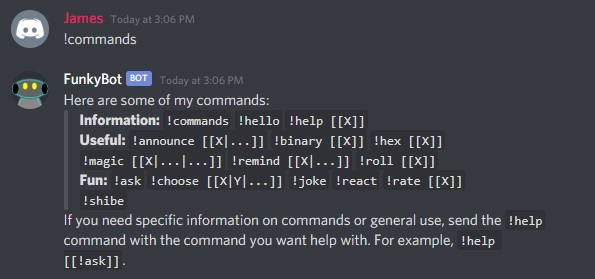
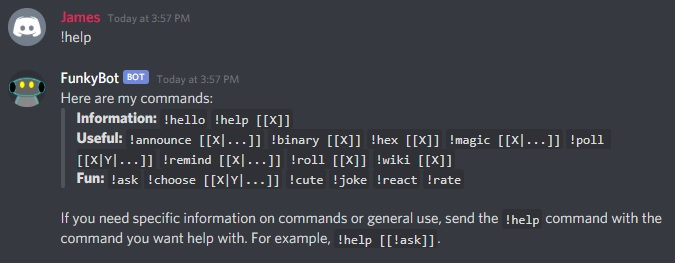
Updated FunkyBot project page

Changed region(s): [[0.0, 0.2433, 0.9983, 0.9734], [0.0, 0.0304, 0.3328, 0.1825]]

diff --git a/projects/funkybot.html b/projects/funkybot.html
@@ -39,9 +39,9 @@
                             Some commands available to use with FunkyBot include:
                             <ul>
                                 <li>
-                                    <code>!react</code>/<code>!shibe</code> - 
-                                    Post a random reaction image or picture of a shiba inu to chat.
-                                    No images are supplied in the project repository and must be added by the user running the program.
+                                    <code>!poll</code> - 
+                                    Create a poll with a custom question and answers from which server users can pick via message reactions. 
+                                    It will run for an hour then automatically display the results.
                                 </li>
                                 <li>
                                     <code>!magic</code> - 
